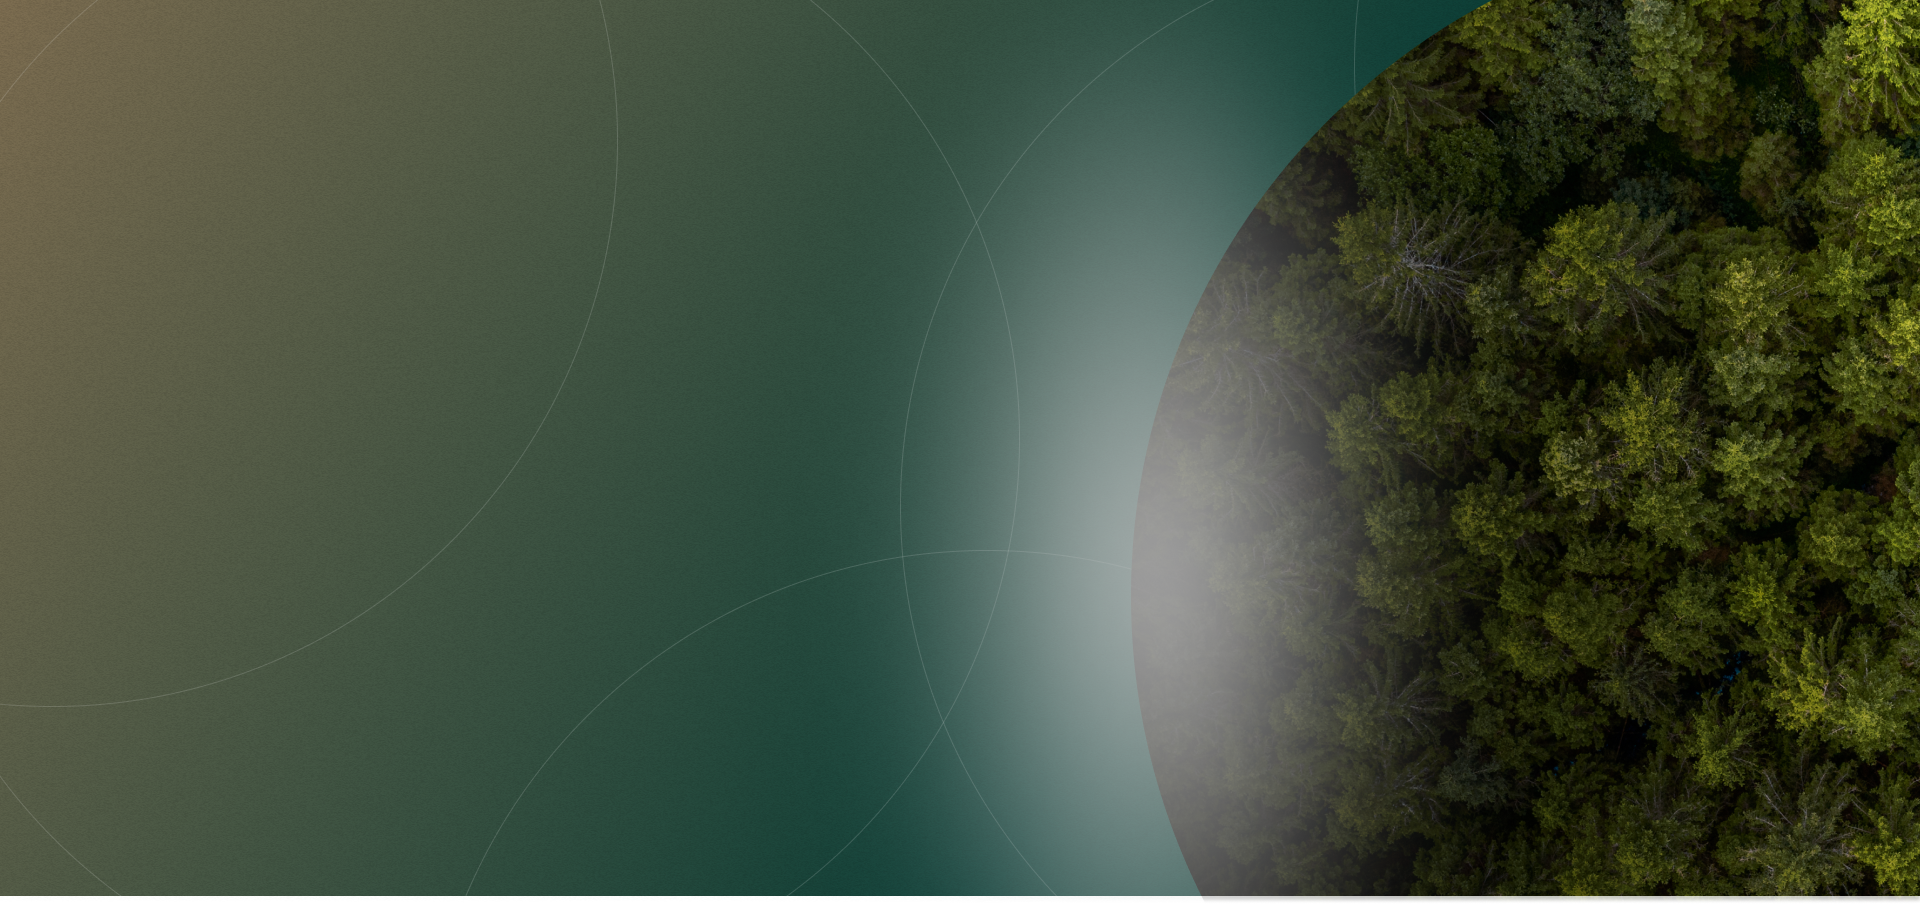
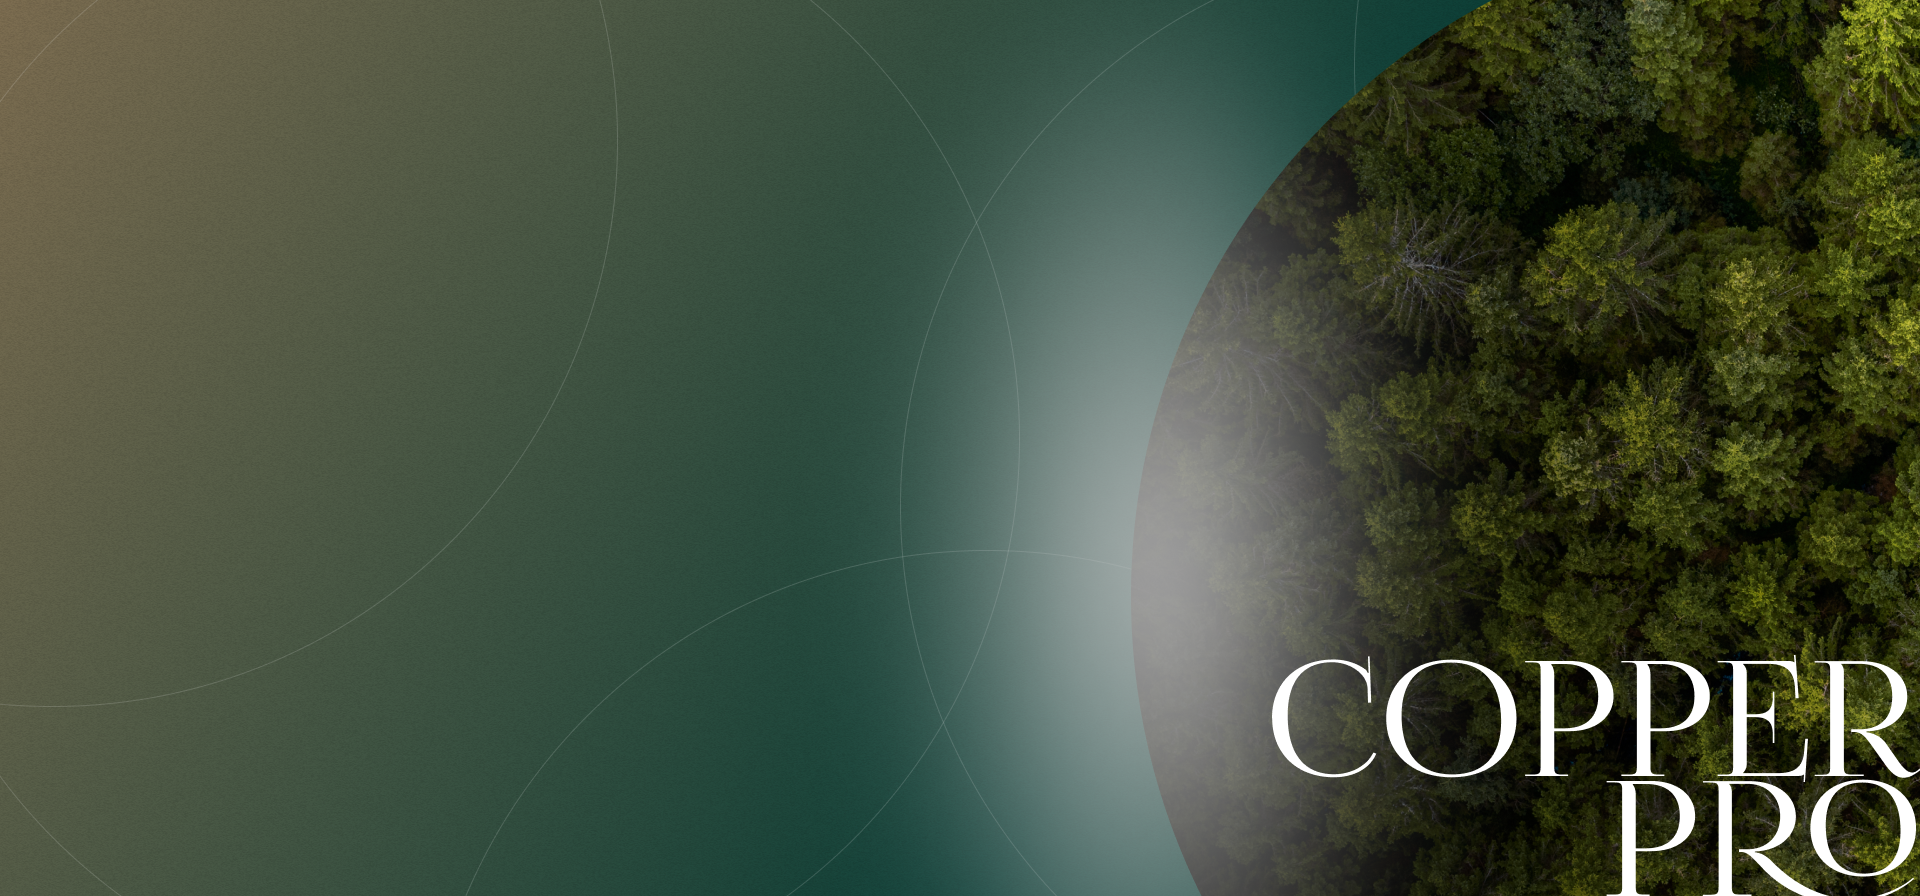
вавап
вапвап

Changed region(s): [[0.0, 0.1562, 1.0, 1.0], [0.7188, 0.4375, 0.75, 0.4688]]

diff --git a/style.css b/style.css
@@ -1,3 +1,5 @@
+@import url(https://fonts.googleapis.com/css?family=PT+Sans:regular,italic,700,700italic);
+
 html, body{
     max-width: 100%;
     margin: 0;
@@ -27,27 +29,30 @@ h1{
 /*Первый экран*/
 
 .first-screen{
-    height: 896px;
+    height: 700px;
     background-image: url(img/img_1screen/bg.png);
     background-size: 100%;
     background-repeat: no-repeat;
+    color: #FFFFFF;
 }
 
 header{
-    max-width: 1150px;
+    max-width: 1100px;
     margin: 0 auto;
 }
 nav{
     display: flex;
-    max-width: 1400px;
+    max-width: 1350px;
     justify-content: space-between;
-    margin-top: 44px;
+    margin-top: 35px;
 }
 
 /*Первый екран/список навигации*/
 
 .logo a img{
     margin-bottom: -18px;
+    max-width: 129px;
+    max-height: 34px;
 }
 
 [class*="_list"]{
@@ -58,13 +63,16 @@ nav{
 }
 
 .nav_list{
-    width: 25rem;
+    width: 27rem;
     padding-left: 0px;
+    padding-bottom: 8px;
     margin: 0 auto;
     align-items: flex-end;
     position: relative;
-    left: -11%;
-    font-size: 16px;
+    left: -14%;
+    font-family: "PT+Sans";
+    font-size: 14px;
+    letter-spacing: 1px;
 }
 
 nav a{
@@ -74,16 +82,19 @@ nav a{
 a:hover{
     text-decoration-line: underline;
     color: rgba(94, 57, 40, 1);
+    font-weight: bold;
 }
 
 /*Список иконок навигации*/
 
 .nav_icons_list{
-    width: 10rem;
+    width: 9rem;
+    position: relative;
+    bottom: 10px;
 }
 
 .nav_icons{
-    min-width: 50px;
+    min-width: 40px;
     min-height: 83px;
     background-image: url(img/img_1screen/nav/icons.png);
     margin-top: -44px;
@@ -91,15 +102,15 @@ a:hover{
 }
 
 .heart{
-    background-position: 0 0;
+    background-position: -5px 0;
 }
 
 .user{
-    background-position: -70px 0;
+    background-position: -75px 0;
 }
 
 .shopping-cart{
-    background-position: -140px 0;
+    background-position: -145px 0;
 }
 
 .heart:hover, .user:hover, .shopping-cart:hover{
@@ -107,6 +118,60 @@ a:hover{
     -webkit-transform: translate(0,-20%); 
     -o-transform: translate(0,-20%); 
     -moz-transform: translate(0,-20%);
+
+}
+
+/*Слайдер первого экрана*/
+
+
+
+.flex-wrapper {
+    width: 100%;
+    display: flex;
+    justify-content: center;
+}
+
+.slider-wrapper {
+    max-width: 1920px;
+    width: 100%;
+    height: 100%;
+    position: relative;
+    box-shadow: 10px 10px 44px -10px rgba(0,0,0,0.75);
+}
+
+#btn-prev, #btn-next {
+    position: absolute;
+    left: 0;
+    top: 0;
+    cursor: pointer;
+    min-height: 100%;
+    display: flex;
+    align-items: center;
+}
+
+#btn-prev:hover, #btn-next:hover {
+    /*opacity: 0.6;*/
+}
+
+
+#btn-next {
+    left: auto;
+    right: 0;
+}
+
+.slide {
+    width: 100%;
+    height: 100%;
+    display: none;
+}
+
+.slide.active {
+    /*display: block;*/
+}
+
+img {
+    width: 100%;
+    height: 100%;
 }
 
 

diff --git a/index.html b/index.html
@@ -11,7 +11,7 @@
 
 <body>
     <div class="wrapper">
-        <section>
+        <!--<section>
             <div class="project_name">
                 <h1>Сайт для интернет магазина медной посуды</h1>
             </div>
@@ -38,14 +38,14 @@
                             target="_blank">здесь</a> .</p>
                 </div>
             </div>
-        </section>
+        </section>-->
         <div class="first-screen">
             <header>
                 <div class="nav_wrapp">
                     <nav>
                         <div class="logo">
                             <a href="index.html" class="link_logo">
-                                <img src="img/img_1screen/nav/logo.png" alt="logo">
+                                <img src="img/img_1screen/nav/image 2.svg" alt="logo">
                             </a>
                         </div>
                         <ul class="nav_list">
@@ -63,6 +63,21 @@
                     </nav>
                 </div>
             </header>
+            <div class="flex-wrapper">
+                <div class="slider-wrapper">
+                    <div class="slide active">
+                        <img src="img/img_1screen/slider/dst.png" alt="">
+                    </div>
+                    <div class="slide">
+                        <img src="img_2.jpg" alt="">
+                    </div>
+                    <div class="slide">
+                        <img src="img_3.jpg" alt="">
+                    </div>
+                    <div id="btn-prev"><img src="img/img_1screen/slider/btnLt.png" alt="prev"></div>
+                    <div id="btn-next"><img src="img/img_1screen/slider/btnRt.png" alt="next"></div>
+                </div>
+            </div>   
         </div>
         <main></main>
         <footer>
